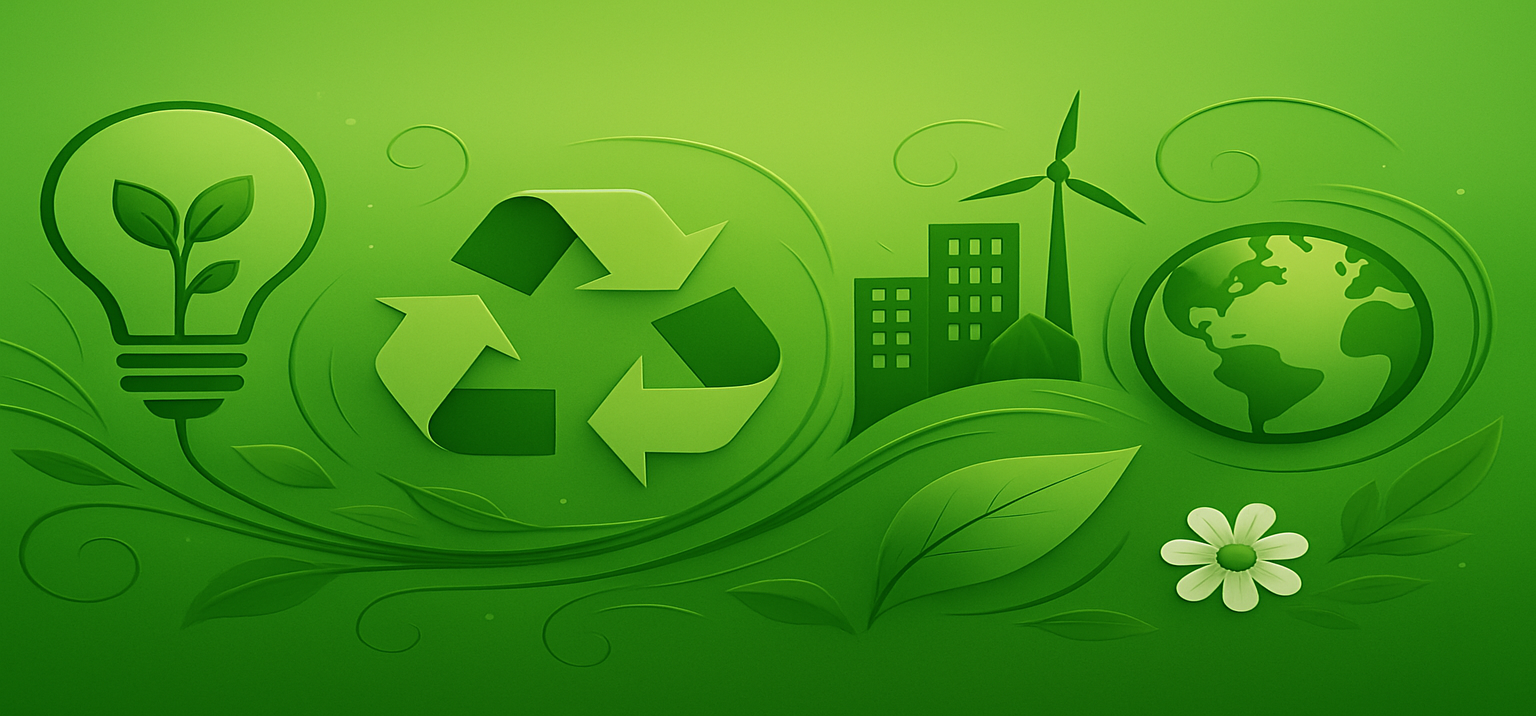
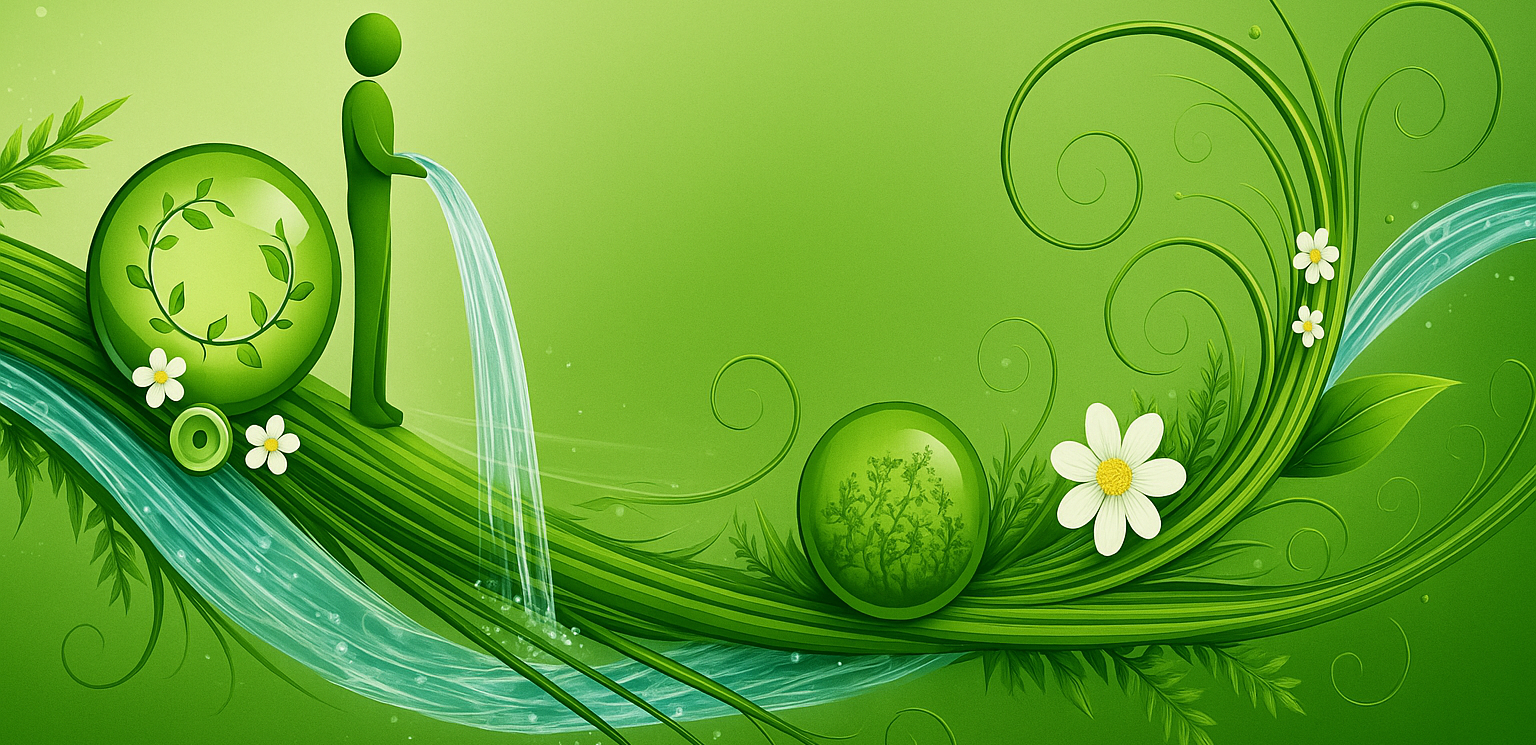
update sustainability, add abhaya to footer header

diff --git a/src/app/components/specific/Sustainability.tsx b/src/app/components/specific/Sustainability.tsx
@@ -6,11 +6,11 @@ const SustainabilitySection: React.FC = () => {
   };
 
   return (
-    <section className="relative w-full h-[650px] text-center text-white bg-gray-800 overflow-hidden">
+    <section className="relative w-full h-[720px] text-center text-white bg-border-gray overflow-hidden">
       <img
         src="/sustainability.png"
         alt="Lush green landscape representing sustainability"
-        className="absolute top-0 left-0 w-full h-full object-cover"
+        className="absolute top-0 left-0 w-full h-full object-cover opacity-0.9"
         onError={(e) => (e.currentTarget.style.display = 'none')}
       />
       <div className="absolute inset-0 bg-black/50"></div>
@@ -19,12 +19,12 @@ const SustainabilitySection: React.FC = () => {
           Committed to a Greener Future
         </h1>
         <p className="text-lg md:text-xl max-w-2xl mb-8 font-light">
-         Doğaya ve insana saygılı bir anlayışı benimseyen Ekinciler Demir Çelik için uygarlık,doğaya karşı olmak değil doğayla birlikte gelişmek”tir. Bu tanımdan hareketle şirket, tesislerinde sürdürülebilirlik prensiplerini hâkim kılmıştır. Şirketin ekolojik dengenin korunması için üzerinde önemle durduğu konular arasında;
+        Lorem ipsum dolor sit amet consectetur adipisicing elit. Porro totam, quia quam dolor laudantium atque vel velit non doloremque architecto. Odit saepe exercitationem aperiam! Distinctio ut minima vel labore nulla fugiat illo sint necessitatibus aliquid ad dicta, error incidunt adipisci, ullam animi odit suscipit ratione porro placeat saepe nihil repellendus.
 
         </p>
         <button 
           onClick={handleLearnMoreClick}
-          className="bg-green-600 hover:bg-green-700 text-white font-bold py-3 px-8 rounded-md transition-colors duration-300 ease-in-out"
+          className="bg-sustainability-green hover:bg-sustainability-green-dark text-white font-bold py-3 px-8 rounded-md transition-colors duration-300 ease-in-out"
         >
           Learn More
         </button>

diff --git a/src/app/components/ui/Footer.tsx b/src/app/components/ui/Footer.tsx
@@ -1,15 +1,22 @@
 'use client'
 
-
 import React from "react";
 import Link from "next/link";
+import { Abhaya_Libre } from "next/font/google";
+
+// 1. Instantiate the font with desired weights and subsets
+const abhaya = Abhaya_Libre({
+  subsets: ['latin'],
+  weight: ['400', '700'], // Add any weights you use, e.g., '400', '700'
+});
+
 
 // Use a named export
 export const Footer = () => {
   return (
     <footer className="bg-background-dark dark:bg-background w-full mx-auto">
       <div className="container mx-auto flex flex-col gap-4 px-6 pb-4 pt-8 text-center w-full min-w-full lg:w-4/5 lg:min-w-0 text-hover-gray">
-      <h1 className="text-4xl md:text-4xl text-text-dark dark:text-text">Request for more information</h1>
+      <h1 className={`text-5xl md:text-4xl text-text-dark dark:text-text font-bold ${abhaya.className}`}>Request for more information</h1>
         <div className=" flex flex-col md:flex-row gap-4 w-5/5 md:w-4/5 mx-auto">
           <div className="mb-1">
             <h4 className="text-lg font-semibold text-hover-gray dark:text-text mb-1">

diff --git a/src/app/lib/styles/globals.css b/src/app/lib/styles/globals.css
@@ -21,7 +21,9 @@
   --color-border-gray: #ded6d5;
   --color-logo-blue: #2f79ed; /* Custom Blue */
   --color-logo-blue-dark: #1a2b4d; /* Darker Custom Blue */
-  --color-border-gray:gray-300
+  --color-border-gray:gray-300;
+  --color-sustainability-green:green-600;
+  --color-sustainability-green-dark:green-700;
 
   --font-sans: var(--font-geist-sans);
   --font-mono: var(--font-geist-mono);
